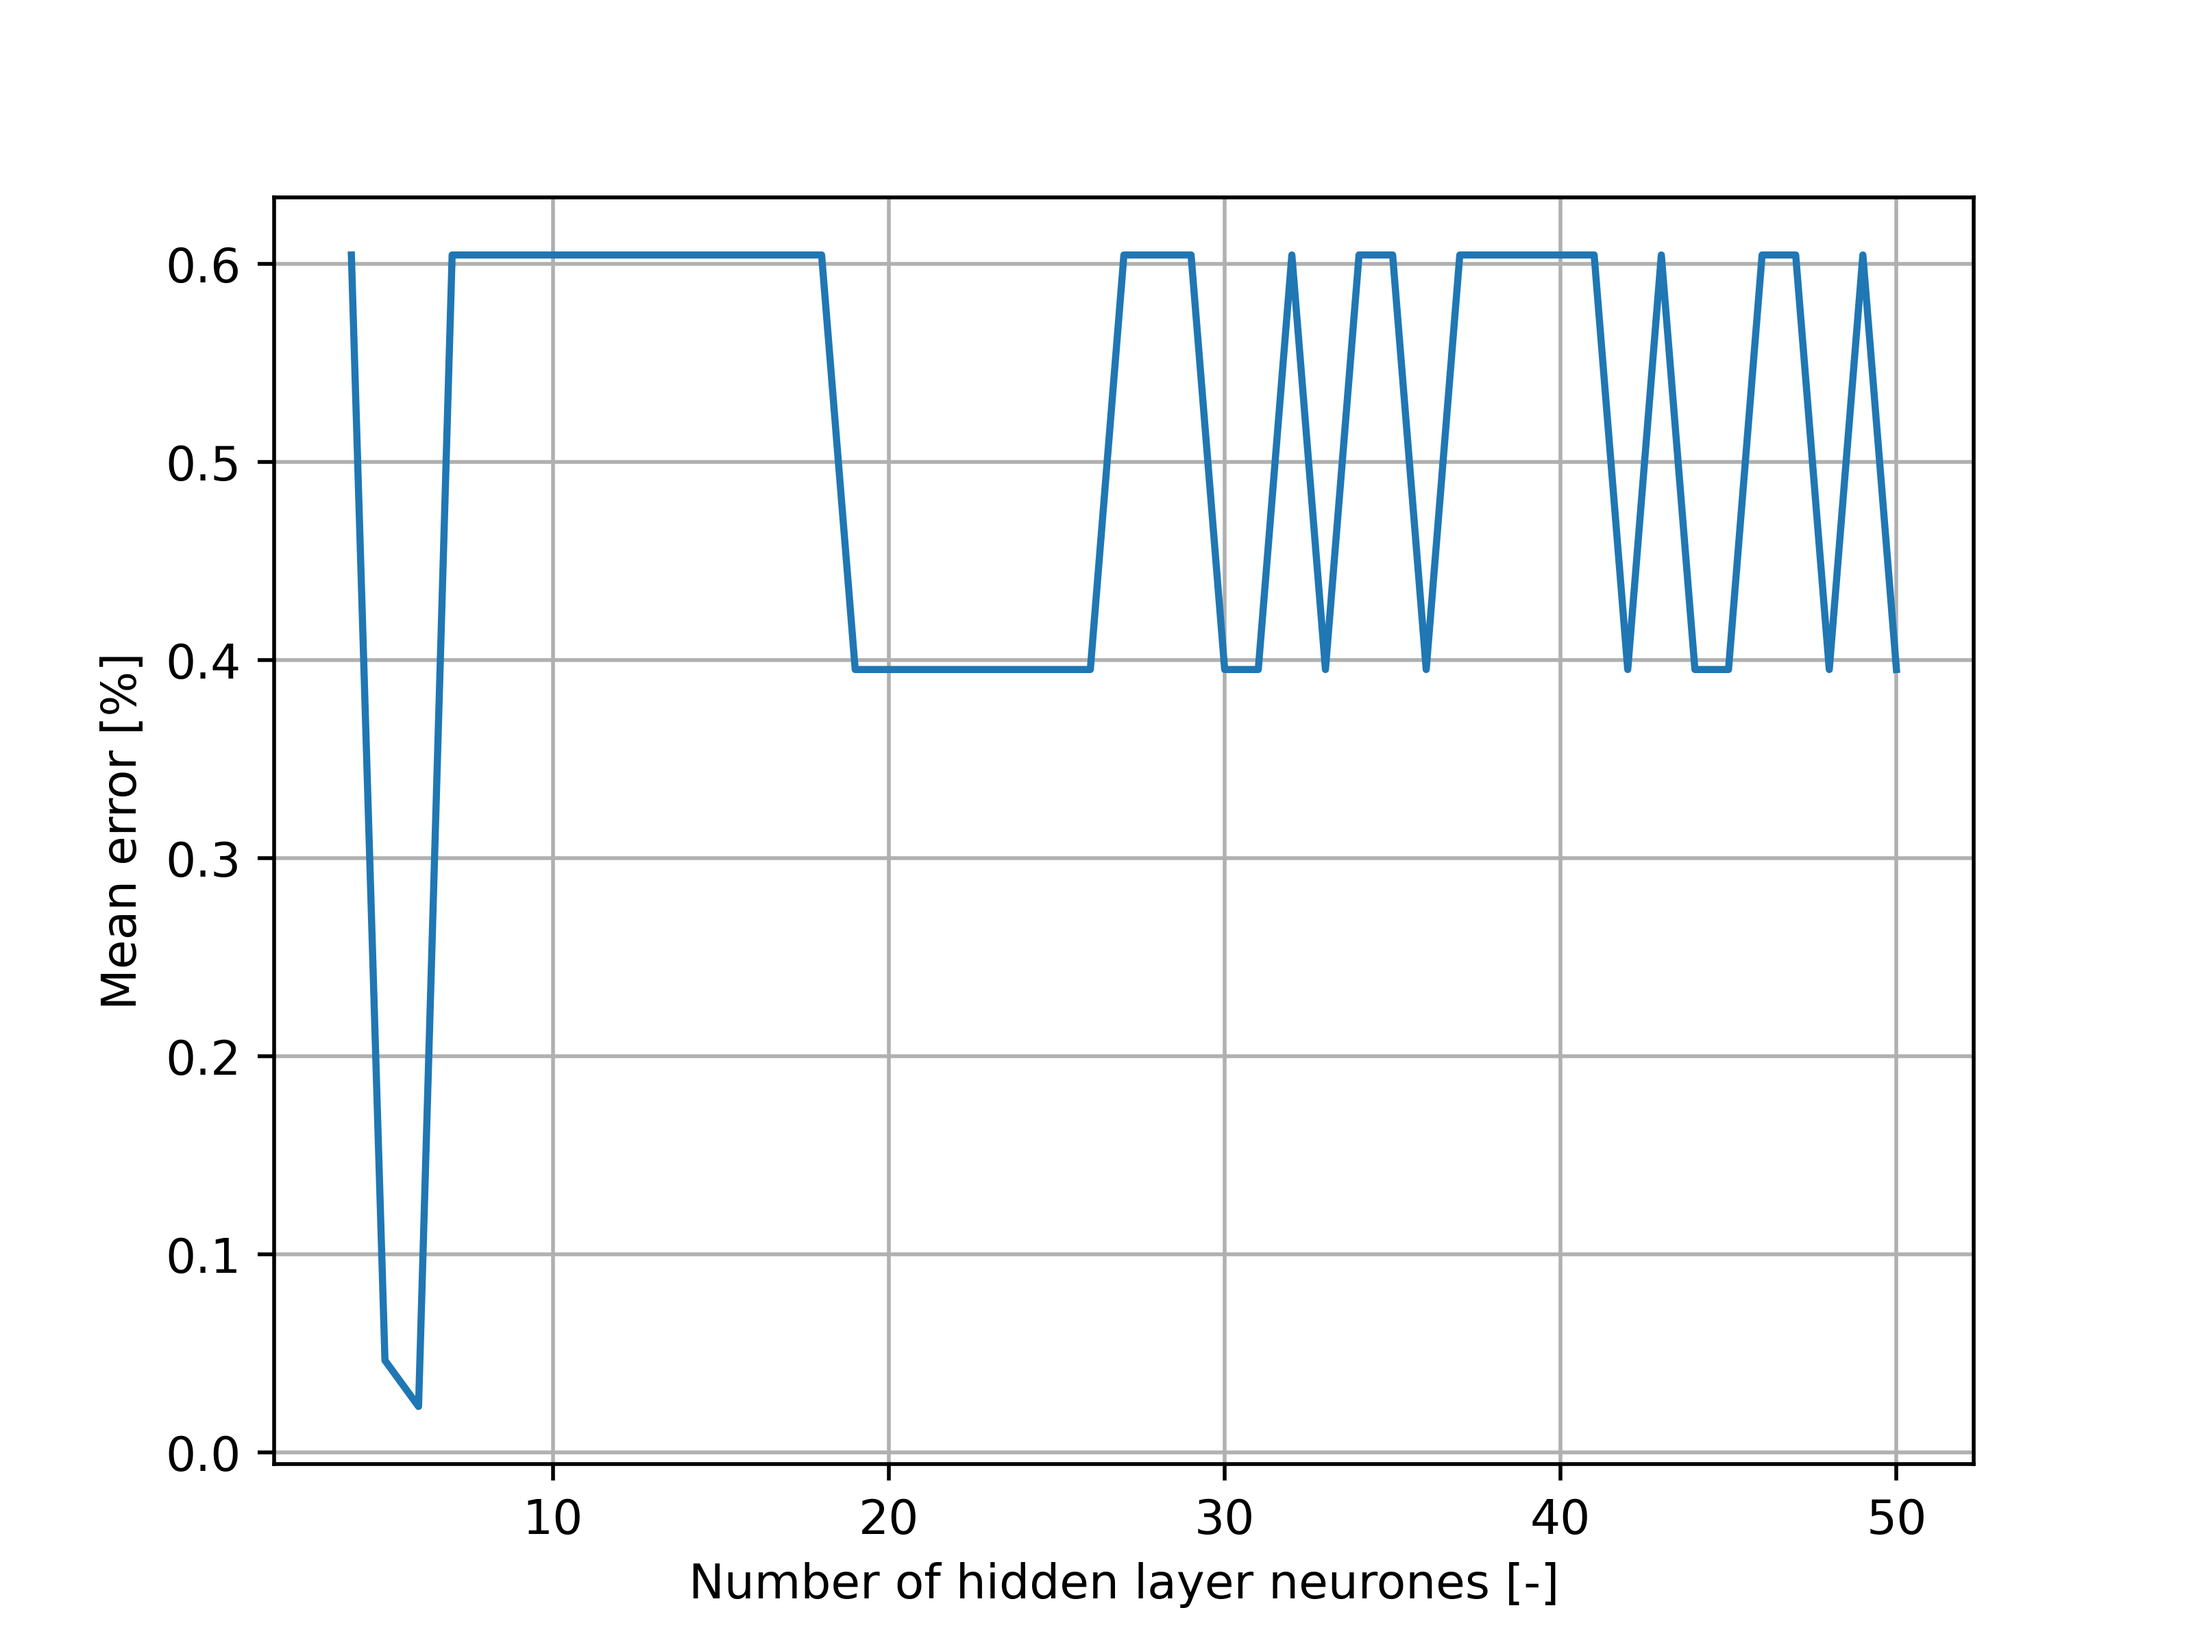
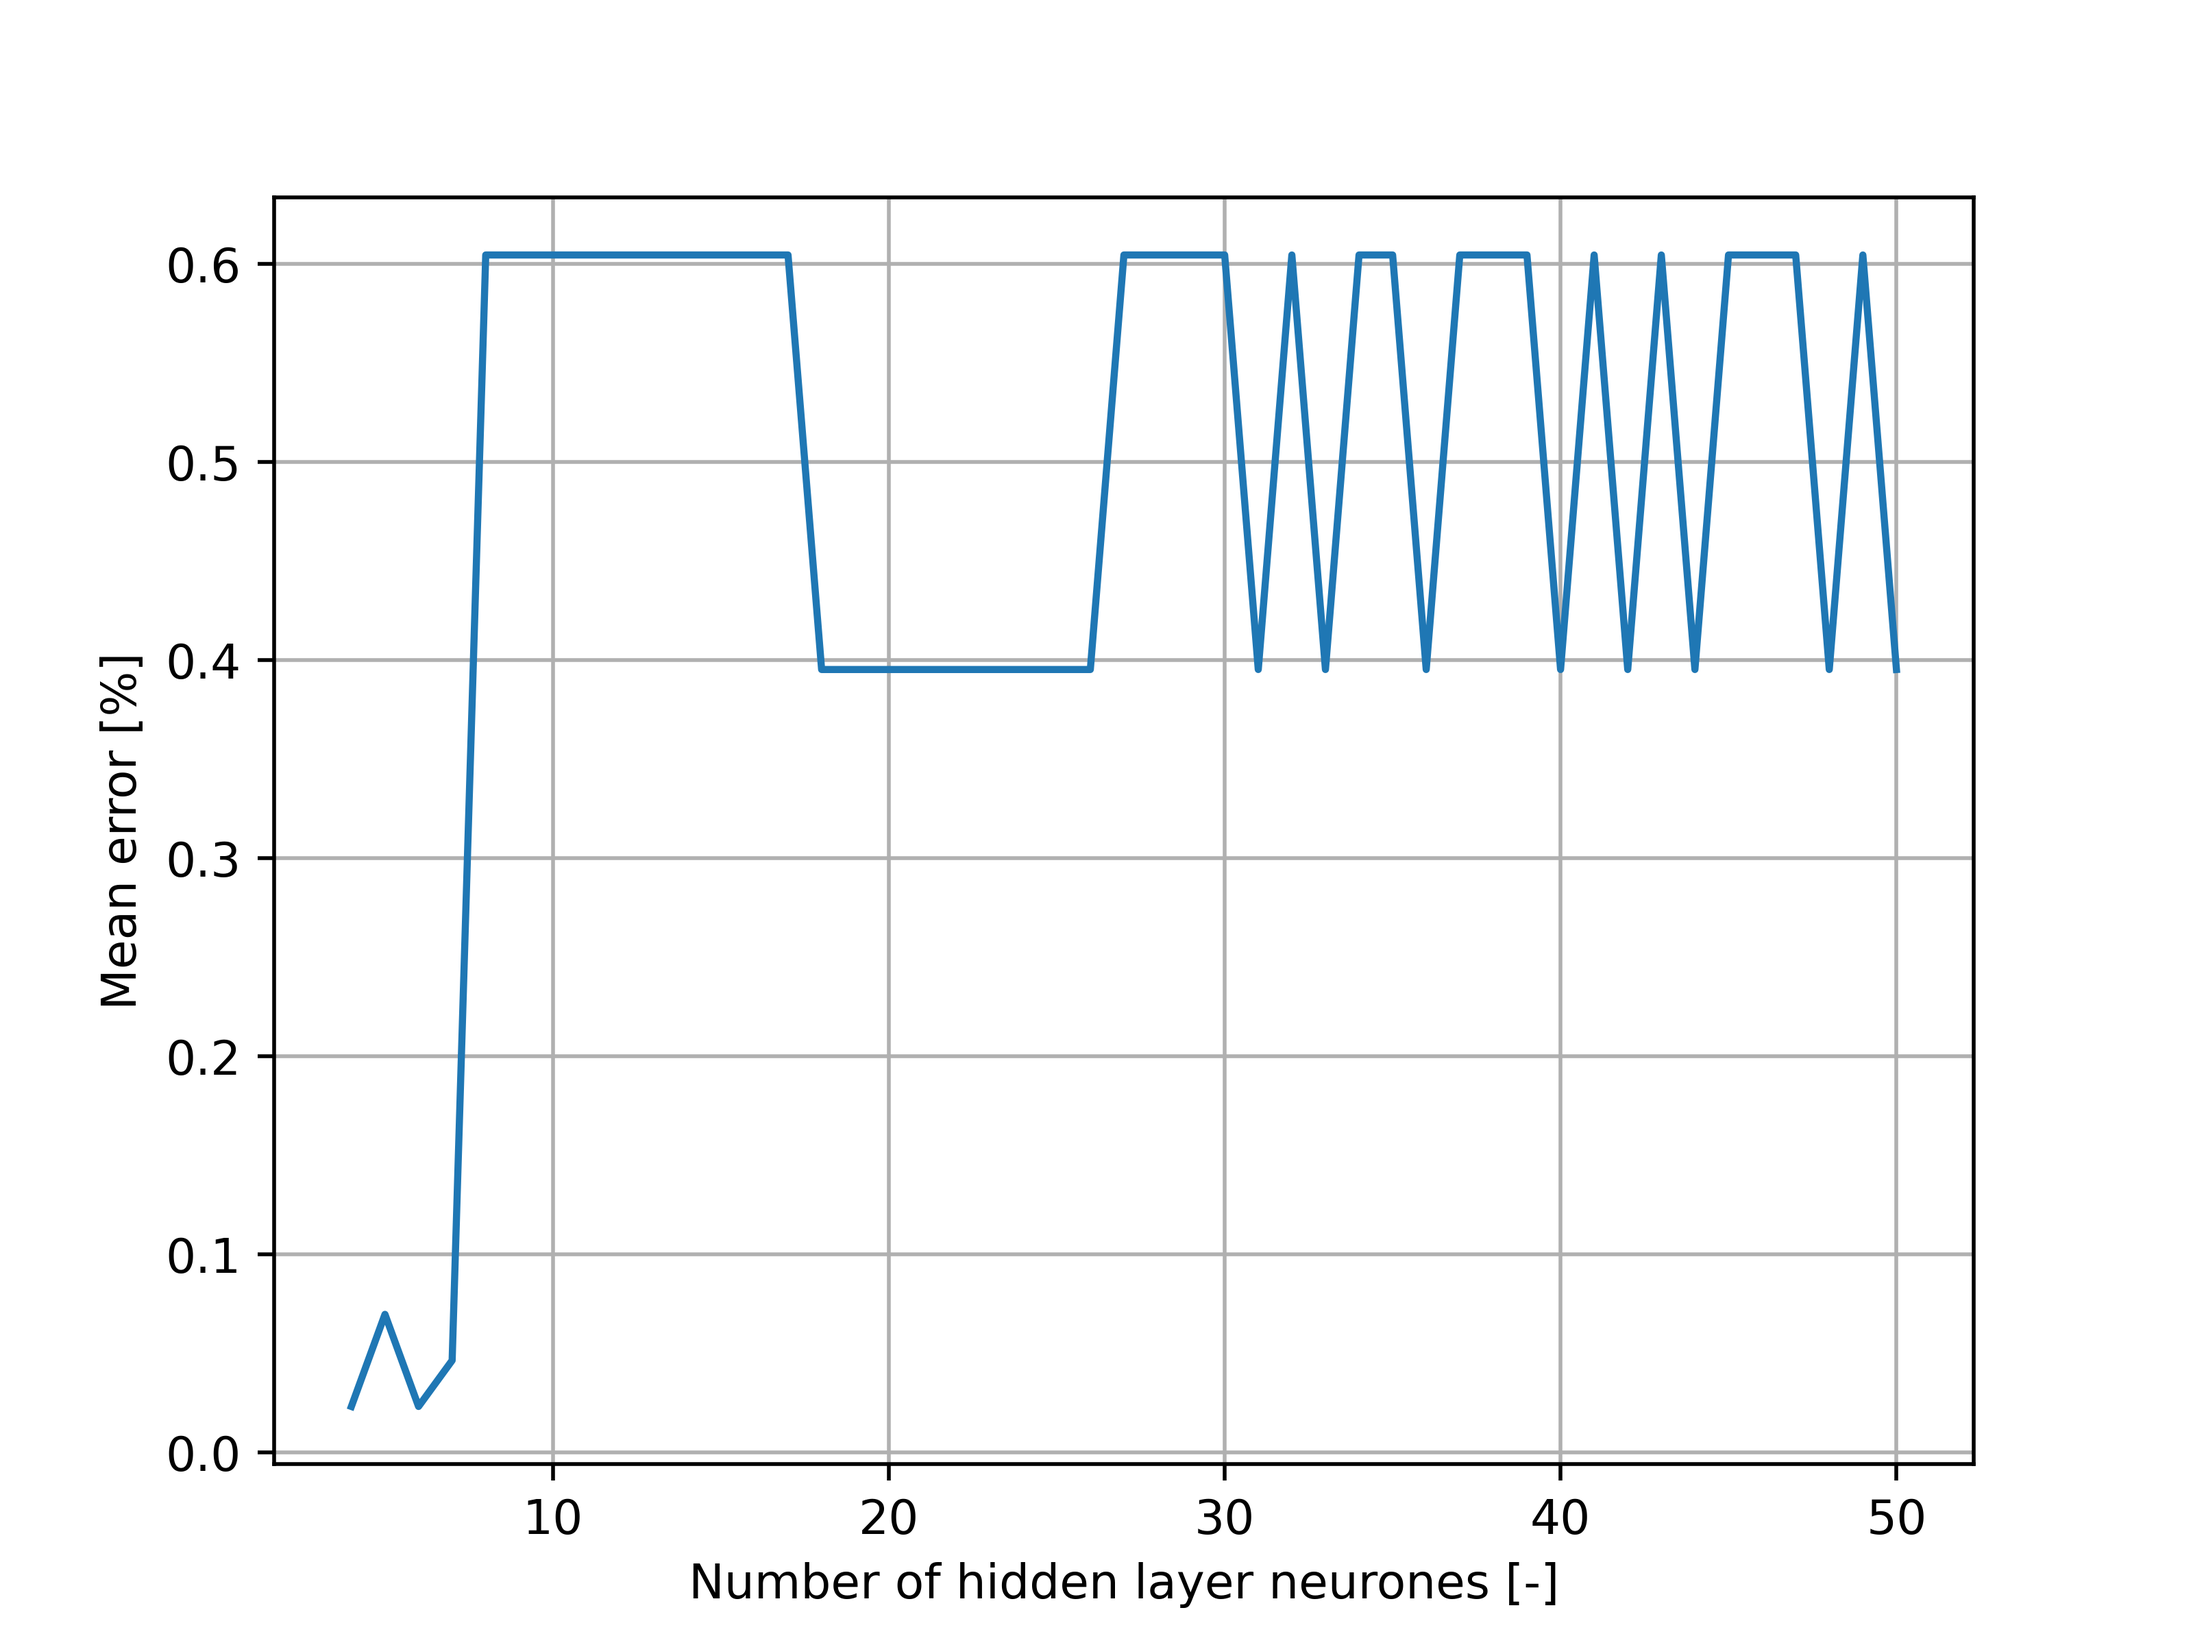
jbj0b

diff --git a/Projet Final AI/Code/NeuralNet.py b/Projet Final AI/Code/NeuralNet.py
@@ -375,6 +375,7 @@ class NeuralNet(Classifier):
             n_neurone.append(i)
         if plot_results:
             plt.plot(n_neurone, mean_errors)
+            plt.legend()
             plt.grid()
             plt.xlabel("Number of hidden layer neurones [-]")
             plt.ylabel("Mean error [%]")
@@ -428,7 +429,7 @@ if __name__ == "__main__":
 
     warnings.filterwarnings("ignore")
 
-    train_ratio_nn: float = 0.1
+    train_ratio_nn: float = 0.5
     prn = 1  # number of training per training_size for the compute of the Learning curve
 
     confusionMatrixList: list = list()
